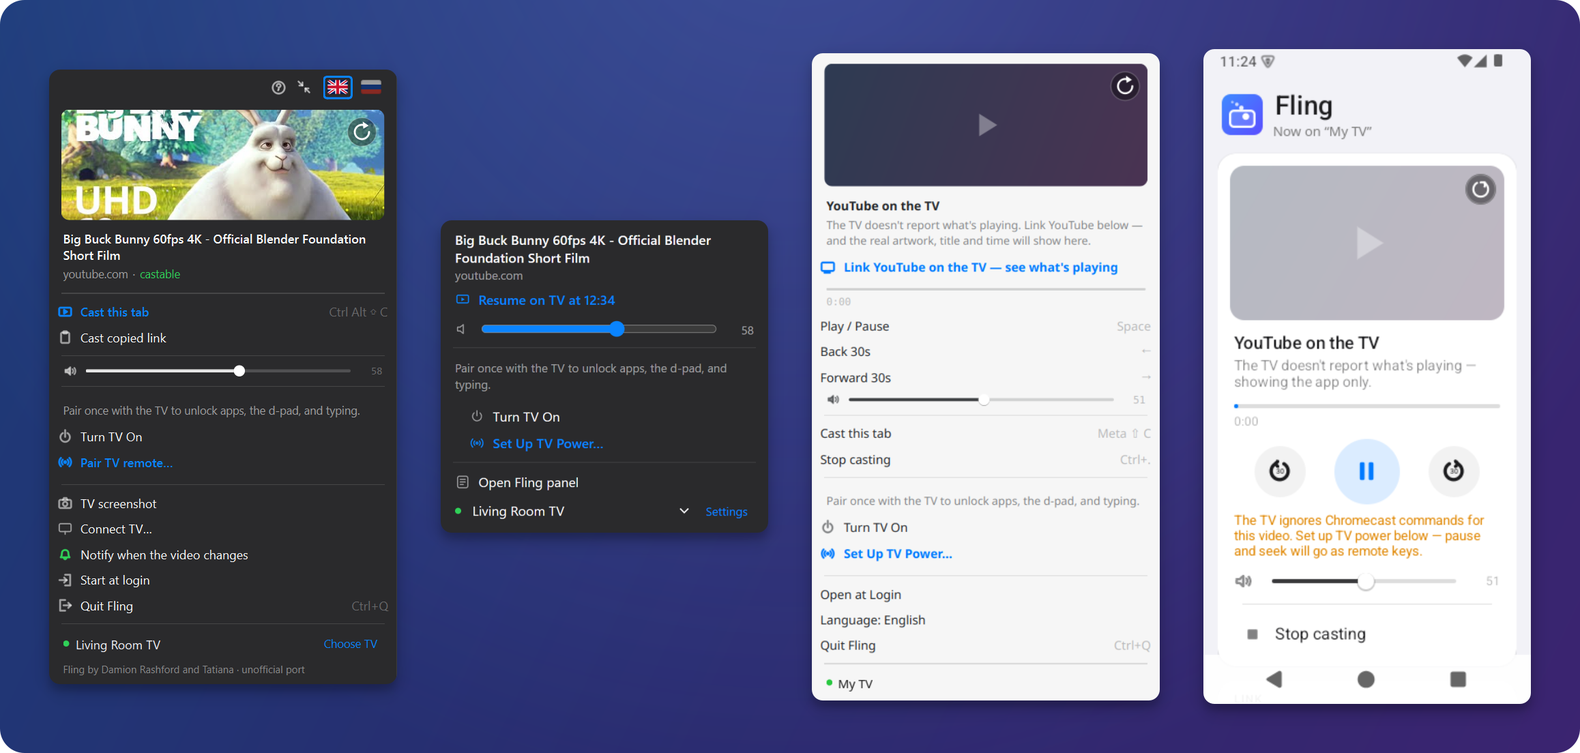
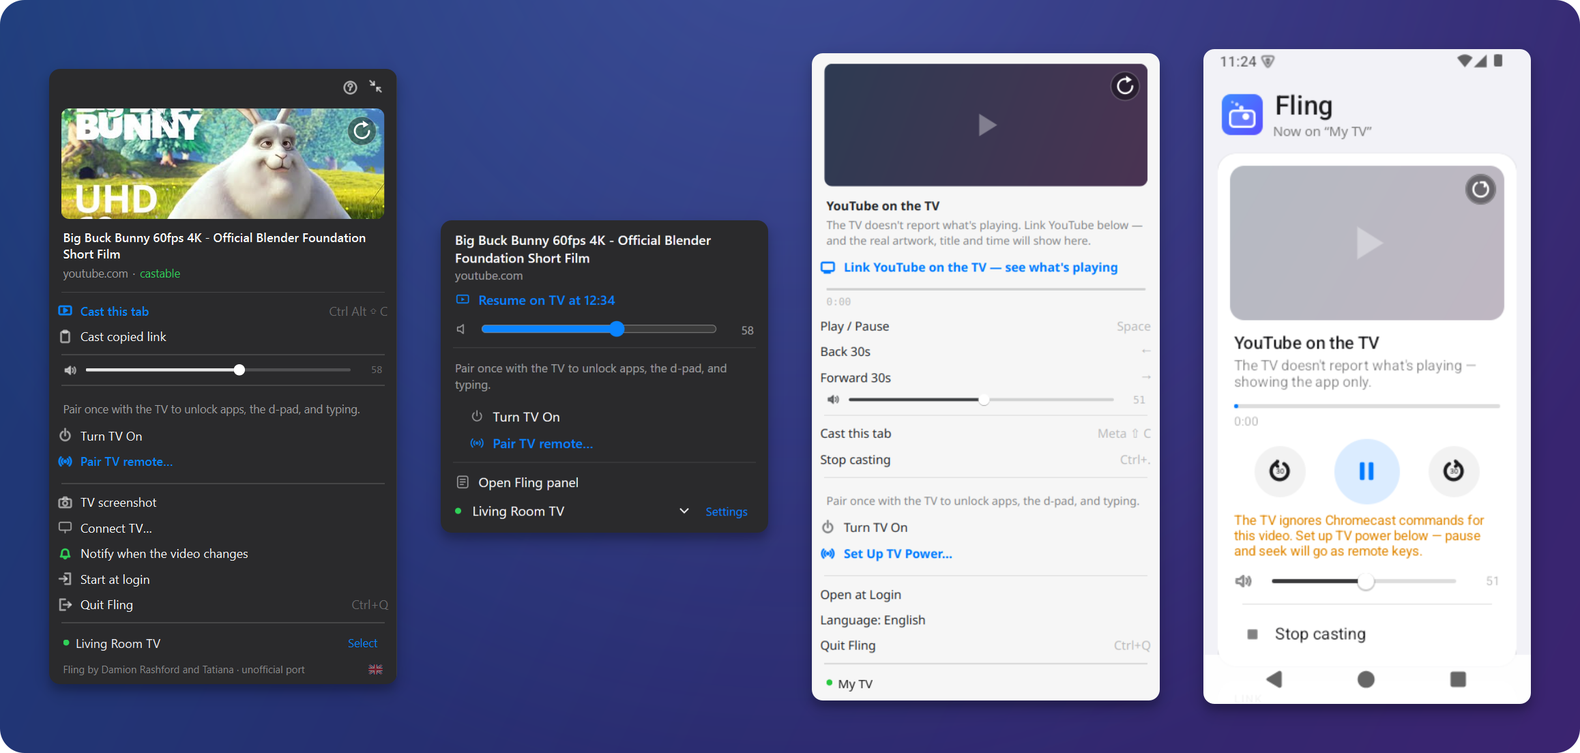
Docs and labels pass for readers
- README: current screenshots, what was actually tested
- Windows guide: correct button names, guide/compact/language rows,
  updating and removing in English too
- Changelog 0.2.0 rewritten as one consistent list
- Android: Pair TV remote / Paste copied link labels like the desktop,
  camera icon for TV screenshot

diff --git a/android/src/app/fling/Help.java b/android/src/app/fling/Help.java
@@ -15,7 +15,7 @@ final class Help {
     private static final String[][] RU = {
             {"Первый запуск", "• Подключите телефон к той же сети Wi‑Fi, что и телевизор.\n• Откройте Fling — он сам найдёт ТВ, его название появится внизу экрана.\n• Один раз свяжите пульт (раздел «Связать пульт») и включите отладку ADB (раздел «Название и обложка с ТВ»).\n• Эта инструкция всегда открывается кнопкой «?» вверху."},
             {"Выбор телевизора", "• Убедитесь, что телефон и ТВ находятся в одной сети Wi‑Fi.\n• Приложение автоматически ищет ТВ; выбранный ТВ отображается внизу экрана.\n• Нажмите «Сменить» для выбора другого ТВ или «Найти ТВ заново».\n• Для ручного добавления используйте «Добавить ТВ по IP…», а чтобы удалить – «Убрать добавленный вручную»."},
-            {"Связать пульт", "• В карточке «Телевизор» нажмите «Настроить управление ТВ…».\n• На ТВ появится код из 6 символов (цифры и буквы A–F).\n• Введите этот код в приложении.\n• После связывания работают пауза, кнопки приложений, крестовина, ввод текста, голос, отправка YouTube‑ссылок."},
+            {"Связать пульт", "• В карточке «Телевизор» нажмите «Связать пульт с ТВ…».\n• На ТВ появится код из 6 символов (цифры и буквы A–F).\n• Введите этот код в приложении.\n• После связывания работают пауза, кнопки приложений, крестовина, ввод текста, голос, отправка YouTube‑ссылок."},
             {"Отправить видео на ТВ", "• В YouTube или браузере нажмите «Поделиться» → «На телевизор».\n• Или скопируйте ссылку и в карточке «Ссылка» нажмите «Вставить ссылку из буфера», затем «Отправить на ТВ».\n• Последние 5 ссылок можно отправлять повторно.\n• YouTube‑ссылки открываются в приложении YouTube (требуется связанный пульт).\n• Прямые ссылки на файлы (mp4, mkv, mp3, m3u8…) работают без пульта.\n• Другие сайты открываются на ТВ, если пульт связан."},
             {"Что играет сейчас", "• Карточка вверху показывает обложку, название и время.\n• Кнопки пауза/играть, назад/вперёд 30 секунд, громкость, «Остановить трансляцию».\n• Нажмите ⟳ на обложке для обновления данных."},
             {"Название и обложка с ТВ", "• Чтобы видеть настоящее название, исполнителя и обложку того, что играет на ТВ, нужна отладка ADB.\n• На ТВ: Настройки → Система → О системе → 7 раз нажмите «Сборка».\n• Затем: Настройки → Система → Для разработчиков → включите отладку по сети.\n• Когда ТВ спросит «Разрешить отладку?» для этого телефона — нажмите «Разрешить» (лучше с «Всегда»)."},
@@ -29,8 +29,8 @@ final class Help {
     private static final String[][] EN = {
             {"First launch", "• Connect the phone to the same Wi‑Fi network as the TV.\n• Open Fling — it finds the TV by itself; its name appears at the bottom.\n• Pair the remote once (“Set up remote”) and turn on ADB debugging (“Title and artwork from the TV”).\n• This guide always opens with the “?” button at the top."},
             {"Choose a television", "• Ensure your phone and TV are on the same Wi‑Fi network.\n• The app automatically searches for TVs; the selected TV is shown at the bottom of the screen.\n• Tap “Switch” to choose another TV or “Find TVs again”.\n• To add manually use “Add TV by IP…”, and to remove a manual entry tap “Remove a manually added TV”."},
-            {"Set up remote", "• In the “Television” card tap “Set Up TV Power…”.\n• A 6‑character code (digits and letters A–F) will appear on the TV.\n• Enter this code in the app.\n• After linking, pause, app buttons, exit, text input, voice, and sending YouTube links work."},
-            {"Cast a video to TV", "• In YouTube or a browser tap “Share” → “To TV”.\n• Or copy a link and in the “Link” card tap “Paste link from clipboard”, then “Cast to TV”.\n• The last 5 links can be cast again.\n• YouTube links open in the YouTube app on TV (requires linked remote).\n• Direct file links (mp4, mkv, mp3, m3u8…) play without a remote.\n• Other websites open on the TV when the remote is paired."},
+            {"Set up remote", "• In the “Television” card tap “Pair TV remote…”.\n• A 6‑character code (digits and letters A–F) will appear on the TV.\n• Enter this code in the app.\n• After linking, pause, app buttons, exit, text input, voice, and sending YouTube links work."},
+            {"Cast a video to TV", "• In YouTube or a browser tap “Share” → “To TV”.\n• Or copy a link and in the “Link” card tap “Paste copied link”, then “Cast to TV”.\n• The last 5 links can be cast again.\n• YouTube links open in the YouTube app on TV (requires linked remote).\n• Direct file links (mp4, mkv, mp3, m3u8…) play without a remote.\n• Other websites open on the TV when the remote is paired."},
             {"What’s playing now", "• The top card shows cover art, title and time.\n• Buttons for pause/play, rewind/forward 30 s, volume, “Stop casting”.\n• Tap ⟳ on the cover to refresh data."},
             {"Title and artwork from the TV", "• To see the real title, artist and artwork of what the TV is playing, turn on ADB debugging.\n• On the TV: Settings → System → About → tap “Build” 7 times.\n• Then: Settings → System → Developer options → turn on network debugging.\n• When the TV asks “Allow debugging?” for this phone, tap “Allow” (preferably “Always”)."},
             {"Remote", "• App buttons (YouTube, Netflix, etc.).\n• Switch between “Buttons” / “Touchpad”.\n• Touchpad: swipe – navigate menu; tap – OK; long‑press – Back.\n• Volume buttons.\n• Text input field.\n• Microphone – voice search (app will request microphone access).\n• Power button."},

diff --git a/android/src/app/fling/L.java b/android/src/app/fling/L.java
@@ -125,7 +125,7 @@ final class L {
         e("Поделитесь ссылкой из YouTube или браузера → «Fling» — и видео сразу пойдёт на телевизор. Или скопируйте ссылку и вставьте её здесь.",
           "Share a link from YouTube or your browser → “Fling” and the video goes straight to the TV. Or copy a link and paste it here.");
         e("Отправить на ТВ", "Cast to TV");
-        e("Вставить ссылку из буфера", "Cast clipboard URL");
+        e("Вставить ссылку из буфера", "Paste copied link");
         e("В буфере обмена нет ссылки.", "There's no link on the clipboard.");
         e("Связываюсь с ТВ…", "Contacting TV…");
         e("Введите код с экрана телевизора", "Enter the code on the TV screen");
@@ -133,7 +133,7 @@ final class L {
         e("Телевизор", "TV");
         e("Свяжите один раз с ТВ, чтобы открыть приложения, крестовину, ввод текста, голосовой поиск и отправку YouTube-ссылок.",
           "Pair once with the TV to unlock apps, the d-pad, typing, voice search and sending YouTube links.");
-        e("Настроить управление ТВ…", "Set Up TV Power…");
+        e("Связать пульт с ТВ…", "Pair TV remote…");
         e("Телевизор ещё не найден.", "No TV found yet.");
         e("На телевизоре", "On the TV");
         e("Кнопки", "Buttons");

diff --git a/android/src/app/fling/MainActivity.java b/android/src/app/fling/MainActivity.java
@@ -997,7 +997,7 @@ public class MainActivity extends Activity implements Atv.Listener, Cast.Listene
         linkCastRow = ui.row(L.t("Отправить на ТВ"), "tv_play", null, true, v -> { if (link != null) castLink(link, linkTitle); });
         linkCard.addView(linkCastRow);
         linkCard.addView(ui.row(L.t("Вставить ссылку из буфера"), "clipboard", null, false, v -> pasteLink()));
-        linkCard.addView(ui.row(L.t("Снимок экрана ТВ"), "clipboard", null, false, v -> tvScreenshot()));
+        linkCard.addView(ui.row(L.t("Снимок экрана ТВ"), "camera", null, false, v -> tvScreenshot()));
         recentBox = ui.col();
         linkCard.addView(recentBox);
         addCard(linkCard);
@@ -1078,7 +1078,7 @@ public class MainActivity extends Activity implements Atv.Listener, Cast.Listene
         TextView sx = ui.text(L.t("Свяжите один раз с ТВ, чтобы открыть приложения, крестовину, ввод текста, голосовой поиск и отправку YouTube-ссылок."), 14, ui.fgA(0.55f), false);
         sx.setLineSpacing(0, 1.2f);
         setupBox.addView(sx, ui.margins(Ui.lp(-1, -2), 10, 0, 10, 6));
-        setupBox.addView(ui.row(L.t("Настроить управление ТВ…"), "waves", null, true, v -> {
+        setupBox.addView(ui.row(L.t("Связать пульт с ТВ…"), "waves", null, true, v -> {
             if (host == null) { showError(L.t("Телевизор ещё не найден.")); return; }
             atv.startPairing(host);
         }));

diff --git a/android/src/app/fling/Ui.java b/android/src/app/fling/Ui.java
@@ -409,6 +409,11 @@ final class Ui {
                     c.drawRoundRect(new RectF(s * .24f, s * .2f, s * .76f, s * .86f), s * .07f, s * .07f, p);
                     c.drawRoundRect(new RectF(s * .38f, s * .12f, s * .62f, s * .26f), s * .04f, s * .04f, p);
                     break;
+                case "camera":
+                    c.drawRoundRect(new RectF(s * .12f, s * .3f, s * .88f, s * .82f), s * .08f, s * .08f, p);
+                    poly(c, false, s, .36f, .3f, .42f, .18f, .58f, .18f, .64f, .3f);
+                    c.drawCircle(m, s * .56f, s * .14f, p);
+                    break;
                 case "waves":
                     c.drawCircle(m, m, s * .06f, p);
                     c.drawArc(new RectF(s * .28f, s * .28f, s * .72f, s * .72f), -45, 90, false, p);

diff --git a/desktop/fling_app.py b/desktop/fling_app.py
@@ -1769,7 +1769,6 @@ class MenuRow(QPushButton):
 
     def setEnabled(self, en):
         super().setEnabled(en)
-        eff = None
         self.setWindowOpacity(1)
         for w in (self.t, self.ic, self.k):
             w.setEnabled(en)

diff --git a/docs/install-windows.ru.md b/docs/install-windows.ru.md
@@ -71,7 +71,7 @@ Python ставить не нужно — всё уже внутри.
 3. **Левый клик** — панель, **правый клик** — меню.
 4. Через ~10 секунд внизу панели появится имя телевизора с зелёной точкой.
    Если нет — смотрите «Если что-то не работает» ниже.
-5. Один раз откроется встроенная инструкция «Как пользоваться». Её всегда можно открыть снова из панели.
+5. Один раз откроется встроенная инструкция. Потом она открывается кнопкой **?** в правом верхнем углу панели.
 
 ### Подключить пульт (один раз)
 
@@ -164,7 +164,8 @@ macOS-Fling своя связка с Safari, расширение ему не н
 | Пауза / перемотка | Пробел, ← / → в панели или в окошке расширения |
 | Стрелки на ТВ | крестовина в панели, или крутите колёсико / тачпад над панелью |
 | Уведомления о смене видео / трека | включены по умолчанию (зелёный колокольчик); выключить — нажмите «Уведомлять о смене видео» (колокольчик станет красным) |
-| Язык, компактный вид | **?** (инструкция) и ⤡ в правом верхнем углу панели; маленький флажок внизу справа переключает 🇬🇧 / 🇷🇺 |
+| Инструкция, компактный вид | кнопки **?** и ⤡ в правом верхнем углу панели. В компактном виде остаются обложка и кнопки ⏪ ⏯ ⏩ ⏹ — подписи видны при наведении |
+| Язык | маленький флажок внизу справа: нажмите — язык переключится |
 | Автозапуск с Windows | «Запускать при входе» |
 | Команды | `fling`, `fling setup`, `fling cast-tab`, `fling clip`, `fling screenshot`, `fling help`, `fling quit` (в новом окне PowerShell / cmd) |
 
@@ -178,7 +179,7 @@ macOS-Fling своя связка с Safari, расширение ему не н
 
 | Что видите | Что сделать |
 |---|---|
-| «Устройство не найдено» | Компьютер и ТВ в одной сети? Разрешите Fling/Python в брандмауэре: Пуск → «Брандмауэр Защитника Windows» → «Разрешение взаимодействия с приложением…» → отметьте «Частные». VPN, гостевой Wi-Fi и «изоляция клиентов» на роутере мешают поиску — добавьте ТВ вручную: кнопка **«ТВ…»** внизу панели → «Добавить ТВ по IP…» (IP — в настройках сети телевизора) |
+| «Устройство не найдено» | Компьютер и ТВ в одной сети? Разрешите Fling/Python в брандмауэре: Пуск → «Брандмауэр Защитника Windows» → «Разрешение взаимодействия с приложением…» → отметьте «Частные». VPN, гостевой Wi-Fi и «изоляция клиентов» на роутере мешают поиску — добавьте ТВ вручную: кнопка **«Выбрать»** внизу панели → «Добавить ТВ по IP…» (IP — в настройках сети телевизора) |
 | Сеть отмечена как «Общедоступная» | Параметры → Сеть и Интернет → ваша сеть → **Частная сеть** |
 | В расширении «Приложение Fling не запущено» | Запустите Fling из «Пуска». Если не помогает — другая программа заняла порт 47613: поменяйте `"bridge_port"` в `%APPDATA%\Fling\fling.json` и тот же порт в настройках расширения |
 | «Отправить эту вкладку» серая | Поставьте расширение (Часть 2) и откройте вкладку с видео |
@@ -197,7 +198,8 @@ macOS-Fling своя связка с Safari, расширение ему не н
 
 - **Готовая сборка:** скачайте новый zip, закройте Fling (меню значка → «Выйти»),
   замените содержимое папки. Пульт и настройки сохранятся.
-  Удалить: `powershell -ExecutionPolicy Bypass -File setup-shortcuts.ps1 -Remove` в папке Fling, затем удалите папку.
+  Удалить: в папке Fling выполните `powershell -ExecutionPolicy Bypass -File setup-shortcuts.ps1 -Remove`,
+  затем удалите саму папку, а также `%LOCALAPPDATA%\Fling` и `%APPDATA%\Fling` (там пульт и настройки).
 - **Из исходников:** обновить — `git pull` и снова `windows\install.cmd`; удалить — `windows\uninstall.cmd`.
 - Расширение удаляется на странице расширений браузера.
 - Телевизор будет помнить пульт «Fling (Windows)» — его можно удалить в настройках ТВ (не обязательно).

diff --git a/CHANGELOG.md b/CHANGELOG.md
@@ -14,44 +14,36 @@ by Damion Rashford and Tatiana; see [CREDITS.md](CREDITS.md).
 
 ### Added
 
-- **Windows port** (Windows 10 1809+ / 11, x64 and ARM64 via emulation): the same tray panel,
-  Connect TV window, remote, voice search and guide as on Linux. Standalone `Fling.exe`
-  (PyInstaller, catt and yt-dlp bundled) or install from source with `windows\install.cmd`
-  (no admin rights); Start menu entry, `fling` command, Start at login, Windows toasts.
-- Windows: system-wide **Win+Shift+C**, falling back to Ctrl+Alt+Shift+C when another app
-  owns it; the panel shows the shortcut that actually works.
-- **Browser extension** for Chrome, Edge, Brave, Opera, Vivaldi, Yandex, Firefox and Safari
-  (one source, `extension/build.py`): popup remote, *Cast this tab* with **resume at the
-  page's position**, the page's own stream for sites yt-dlp can't open, right-click
-  *Cast link / video / page*, Alt+Shift+C, pause in the browser after casting, EN/RU.
-- Desktop ↔ extension bridge on `127.0.0.1:47613` (`desktop/fling_bridge.py`): accepts
-  extension origins and local tools only (Host and Origin checks, `X-Fling` header).
-  The panel's *Cast this tab* now works with any browser that has the extension.
-- Notification when the TV moves to another video or track, with a *Notify about the next
-  video* switch in the panel, the tray menu and the extension settings.
-- A small flag at the bottom of the panel switches 🇬🇧 / 🇷🇺. Panel corner: **?** opens the guide, and a **compact view** button turns playback into one row of icon keys (labels in tooltips) and hides the
-  remote and the housekeeping rows. The notification switch shows a green / red bell;
-  new icons for start at login and quit; clearer labels (*Pair TV remote…*, *Cast copied link*,
-  *Select* next to the TV's name).
-- Android: `Fling.apk` 0.2.0 (version code 2) with the "How to use" guide and the TV chooser.
-  It is signed with a new debug key, so a phone with 0.1.0 must uninstall the old app first
-  (and pair the TV remote again).
-- `android/build.sh` also builds on Windows (Git Bash) and creates the debug key when missing.
-- Step-by-step Windows guide in English and Russian (`docs/install-windows*.md`),
-  Russian README, language flags.
-- Android: first-run tips one at a time over the real screen (spotlight + small card, Material
-  motion) instead of a long dialog; the full guide stays one tap away.
-
-- Linux: choose between several TVs from the panel footer, the tray menu and the
-  Connect TV window; find TVs again; add a TV by IP address (named from its
-  own device description); TVs with identical names are told apart by address;
-  paired TVs are marked.
-- Linux: built-in "How to use" guide (13 sections, English and Russian):
-  panel row, tray menu, `fling help`, shown once on first start.
-- Android: built-in "How to use" guide ("?" button, shown once on first
-  launch), English and Russian; drafted by a local LLM, checked and completed.
-- Android: the same TV chooser — paired / by-IP marks, identical names told
-  apart by address, TVs added by IP are remembered and can be removed.
+- **Windows port** (Windows 10 1809+ / 11, x64; ARM64 through emulation): the same tray panel,
+  Connect TV window, remote, voice search and guide as on Linux. A standalone `Fling.exe`
+  (catt and yt-dlp bundled) or an install from source with `windows\install.cmd`, both without
+  admin rights. Start menu entry, `fling` command, start at login, Windows notifications.
+- Windows: system-wide **Win+Shift+C**; if another app owns it, Ctrl+Alt+Shift+C, and the panel
+  shows which one works.
+- **Browser extension** for Chrome, Edge, Brave, Opera, Vivaldi, Yandex, Firefox and Safari,
+  built from one source (`extension/build.py`): a popup remote, *Cast this tab* that resumes at
+  the page's position, the page's own stream for sites yt-dlp can't open, *Cast link / video /
+  page* in the right-click menu, Alt+Shift+C, pausing the page after casting, English and Russian.
+- A local bridge on `127.0.0.1:47613` between the extension and the app
+  (`desktop/fling_bridge.py`). It accepts browser extensions and local tools only (Host and
+  Origin checks, a required `X-Fling` header). With it the panel's *Cast this tab* works with
+  any browser, not just Firefox.
+- A notification when the TV moves to another video or track. The bell in the panel, the tray
+  menu and the extension settings turn it on (green) or off (red).
+- Panel: a compact view (artwork and playback keys, labels in tooltips), a **?** button for the
+  guide, a small language flag at the bottom, icons for every row, clearer labels
+  (*Pair TV remote…*, *Cast copied link*, *Select* next to the TV's name).
+- Android: short tips on first launch, one at a time over the real screen (a spotlight and a
+  small card with the system's Material motion) instead of a long help page; the full guide is
+  one tap away. Choose between several TVs, add or remove TVs by IP.
+- Android: `Fling.apk` 0.2.0 (version code 2). It is signed with a new key, so a phone with
+  0.1.0 has to uninstall the old app first and pair the TV remote again.
+- `android/build.sh` also works on Windows (Git Bash) and creates the debug key when missing.
+- Linux: choose between several TVs from the panel footer, the tray menu and the Connect TV
+  window; find TVs again; add a TV by IP address; identical names are told apart by address;
+  paired TVs are marked. Built-in "How to use" guide (`fling help`, panel, tray menu).
+- Step-by-step Windows guide in English and Russian (`docs/install-windows*.md`) and a Russian
+  README.
 
 ### Fixed
 

diff --git a/docs/install-windows.md b/docs/install-windows.md
@@ -109,7 +109,8 @@ Fling in Safari → Settings → Extensions.
 | Pause / seek | Space, ← / → in the panel or the extension popup |
 | TV arrows | the d-pad, or scroll over the panel |
 | Next-video notifications | on by default (green bell); click "Notify when the video changes" to turn off (red bell) |
-| Language, compact view | **?** (this guide) and ⤡ in the panel's top-right corner; the small flag at the bottom right switches 🇬🇧 / 🇷🇺 |
+| Guide, compact view | the **?** and ⤡ buttons in the panel's top-right corner. Compact view keeps the artwork and ⏪ ⏯ ⏩ ⏹ keys — labels show on hover |
+| Language | the small flag at the bottom right: click it to switch |
 | Start with Windows | "Start at login" |
 | Commands | `fling`, `fling setup`, `fling cast-tab`, `fling clip`, `fling screenshot`, `fling help`, `fling quit` |
 
@@ -117,7 +118,7 @@ Fling in Safari → Settings → Extensions.
 
 | Symptom | Fix |
 |---|---|
-| "No device found" | Same network? Allow Fling/Python on **Private** networks in Windows Firewall; set your network profile to **Private**. VPNs, guest Wi-Fi and router "client isolation" block discovery — add the TV by IP ("TV…" in the panel footer) |
+| "No device found" | Same network? Allow Fling/Python on **Private** networks in Windows Firewall; set your network profile to **Private**. VPNs, guest Wi-Fi and router "client isolation" block discovery — add the TV by IP (**Select** in the panel footer → Add TV by IP…) |
 | Extension says the app isn't running | Start Fling. If port 47613 is taken, set `"bridge_port"` in `fling.json` and the same port in the extension settings |
 | "Cast this tab" is grey | Install the extension and open a video tab |
 | Pause ignored on YouTube | Pair the remote — YouTube on the TV ignores Cast pause |
@@ -126,7 +127,17 @@ Fling in Safari → Settings → Extensions.
 | Black panel corners (Remote Desktop, VM, old graphics driver) | Usually detected automatically; otherwise add `"solid_panel": true` to `fling.json` |
 | Antivirus removed Fling.exe | Restore it and add an exclusion, or use Option B |
 
-Log: `%LOCALAPPDATA%\Fling\logs\app.log`.
+Log: `%LOCALAPPDATA%\Fling\logs\app.log` — attach the last lines when you report a problem.
+
+## Updating and removing
+
+- **Ready-made build:** download the new zip, quit Fling (tray menu → Quit), replace the folder's
+  contents. Pairing and settings are kept. To remove: run
+  `powershell -ExecutionPolicy Bypass -File setup-shortcuts.ps1 -Remove` in the Fling folder, then
+  delete the folder, `%LOCALAPPDATA%\Fling` and `%APPDATA%\Fling` (pairing and settings).
+- **From source:** update with `git pull` and `windows\install.cmd`; remove with `windows\uninstall.cmd`.
+- Remove the extension on the browser's extensions page.
+- The TV keeps "Fling (Windows)" in its list of remotes; you can remove it in the TV's settings.
 
 ## Privacy
 

diff --git a/README.md b/README.md
@@ -52,6 +52,10 @@ power, apps, d-pad, volume, typing, voice search.
 
 The computer / phone and the TV must be on the same network.
 
+**Tested on:** Windows 11 with Edge and Chrome, Kubuntu 26.04 (KDE Plasma 6), Android 17 (Samsung),
+a TCL Google TV. The Firefox and Safari builds of the extension haven't been tried yet —
+reports are welcome.
+
 **Contents** · [Features](#features) · [How it works](#how-it-works) ·
 [Windows](#install--windows) · [Browser extension](#browser-extension) · [Linux](#install--linux) ·
 [Android](#install--android) · [Connecting the TV](#connecting-the-tv) · [Usage](#usage) ·
@@ -135,7 +139,7 @@ browser extensions and local tools and refuses web pages.
 |---|---|
 | Chrome, Edge, Brave, Opera, Vivaldi, Yandex | `chrome://extensions` → Developer mode → **Load unpacked** → the `extension\chrome` folder of the Windows zip, or `fling-chrome-….zip` from Releases, unzipped |
 | Firefox | `about:debugging` → **Load Temporary Add-on** → `fling-firefox-….zip` (a permanent install needs Developer Edition until it's on AMO) |
-| Safari (Mac) | `extension/safari/build-safari.sh` on a Mac with Xcode; works with Fling running on that Mac |
+| Safari (Mac) | `extension/safari/build-safari.sh` on a Mac with Xcode; needs Fling running on that Mac (not tested yet) |
 
 Details: [Windows guide → Part 2](docs/install-windows.md#part-2-the-browser-extension).
 

diff --git a/README.ru.md b/README.ru.md
@@ -49,6 +49,10 @@
 
 Компьютер / телефон и телевизор должны быть в одной сети.
 
+**Проверено на:** Windows 11 с Edge и Chrome, Kubuntu 26.04 (KDE Plasma 6), Android 17 (Samsung),
+телевизор TCL с Google TV. Расширение для Firefox и Safari собрано, но ещё не проверялось —
+будем рады отзывам.
+
 ## Возможности
 
 | | Windows | Linux (KDE) | Android | Расширение |
@@ -93,7 +97,7 @@
 |---|---|
 | Chrome, Edge, Яндекс, Brave, Opera, Vivaldi | страница расширений → «Режим разработчика» → **«Загрузить распакованное»** → папка `extension\chrome` |
 | Firefox | `about:debugging` → **«Загрузить временное дополнение»** → `fling-firefox-….zip` |
-| Safari (Mac) | `extension/safari/build-safari.sh` на Mac с Xcode |
+| Safari (Mac) | `extension/safari/build-safari.sh` на Mac с Xcode; нужен Fling на этом же Mac (пока не проверялось) |
 
 Подробно — в [гайде, часть 2](docs/install-windows.ru.md#часть-2-расширение-для-браузера).
 
